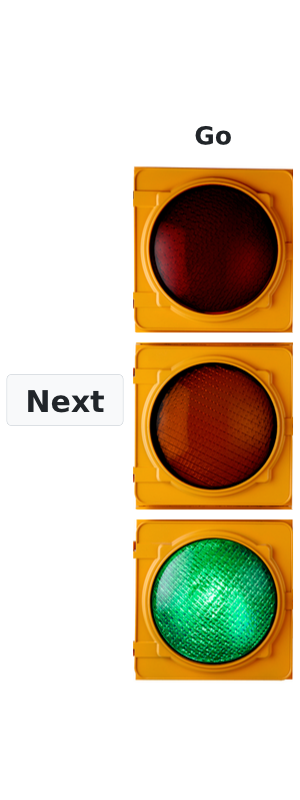
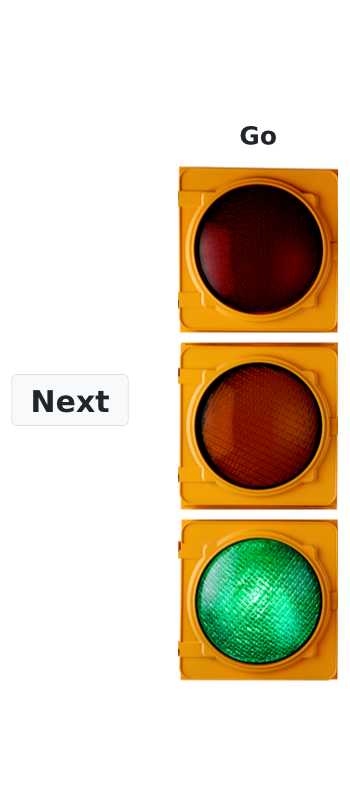
Update screenshots and increase width of comp_traffic_light

diff --git a/examples/comp_traffic_light/src/main.rs b/examples/comp_traffic_light/src/main.rs
@@ -29,7 +29,7 @@ mod test {
 
     #[test]
     fn correct_state_transitions() {
-        let mut harness = TestHarness::new(Holder::default(), (300.0, 800.0));
+        let mut harness = TestHarness::new(Holder::default(), (350.0, 800.0));
         let next_id = harness.get_id("Button").unwrap();
         assert_screenshot!(harness, "stop_state");
         harness.simulate_pointer_down_up(PointerButton::Primary, Some(next_id));
